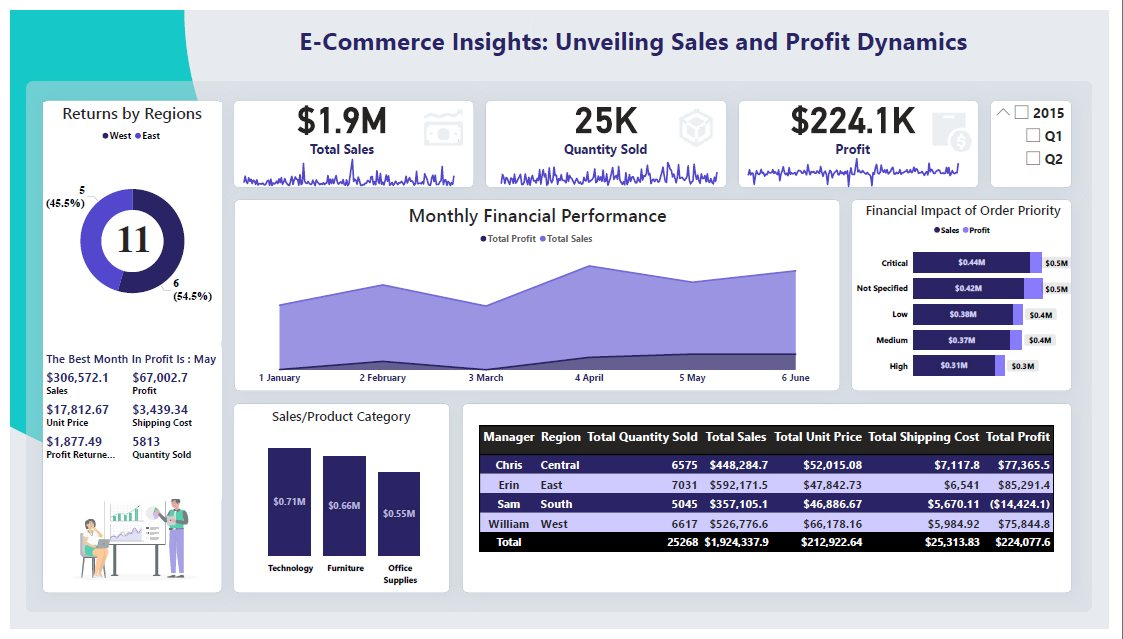
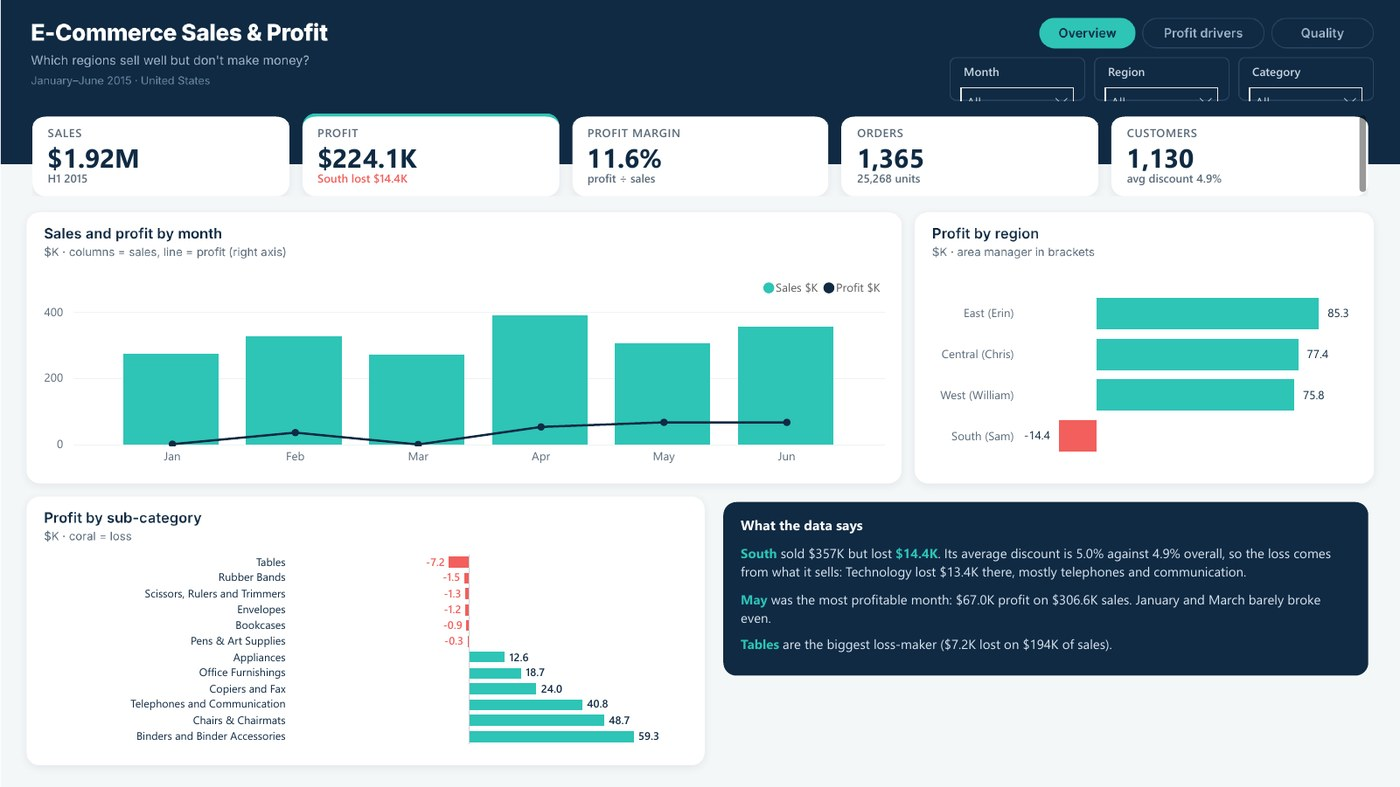
Works: rebuilt E-Commerce Sales & Profit

diff --git a/index.html b/index.html
@@ -844,8 +844,8 @@ footer{border-top:1px solid var(--line);padding-block:48px 40px;background:linea
      tags:["Power BI","DAX","Governance"], imgs:["p2p","p2p-2","p2p-3","p2p-4","p2p-5"]},
     {t:"E‑Commerce Sales & Profit", d:"Aug 2024", cat:"Sales",
      q:"Which regions sell well but don't make money?",
-     p:"$1.9M in sales and $224.1K profit. The South region sold $357K yet lost $14.4K, while May was the most profitable month.",
-     tags:["Power BI","Power Query"], imgs:["ecommerce"]},
+     p:"$1.92M in sales and $224.1K profit. The South region sold $357K yet lost $14.4K, driven by technology rather than discounts, and lines discounted 9% or more run at a −5.0% margin. Rebuilt with a cleaned model, fixed measures, a data quality page and row-level security by area manager.",
+     tags:["Power BI","Power Query","DAX"], imgs:["ecommerce","ecommerce-2","ecommerce-3"]},
     {t:"Sales vs Forecast", d:"Oct 2023", cat:"Sales",
      q:"Did 2009 beat the plan, and where did the gap come from?",
      p:"2009 sales of $40.62M were $2.30M below 2008 but $1.62M above the $39.00M forecast. A waterfall bridges the change by country, and a heatmap shows forecast accuracy by category and country (sample data shaped like the original Contoso report).",
